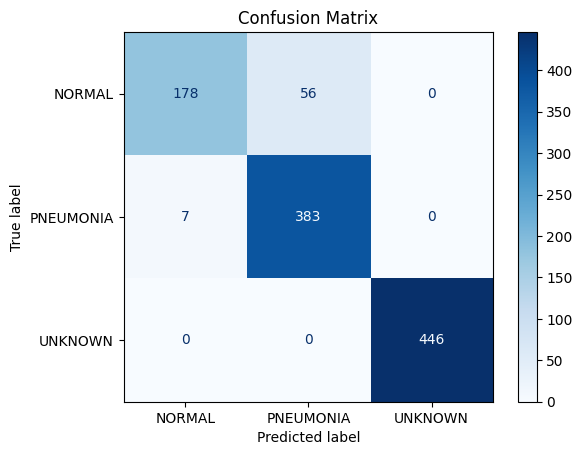
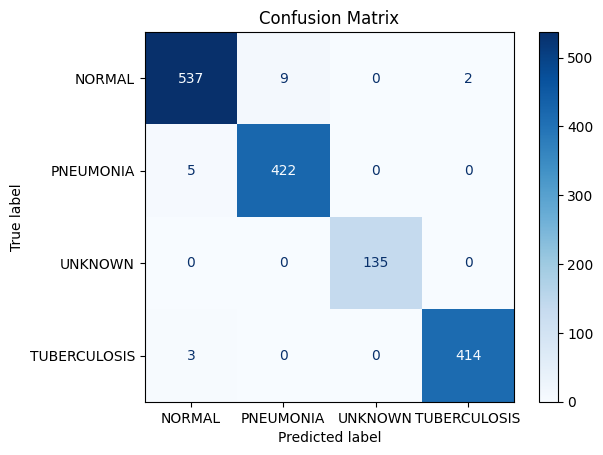
updated model in pntu

diff --git a/pn.html b/pn.html
@@ -42,7 +42,7 @@
                             <div class="row">
                                 <div class="col text-center mt-sm-5 mb-sm-5 ms-sm-2">
                                     <h1 class="display-2 fw-lighter" style="margin:10px;background:var(--bs-secondary-text-emphasis);color:var(--bs-body-color);font-family:'Alegreya Sans SC', sans-serif;border-radius:6px;">Tuberculosis &amp; pneumonia<strong>&nbsp;Detect From X-Ray&nbsp;</strong></h1>
-                                    <p style="margin:10px;margin-bottom:10px;background:var(--bs-gray-800);color:var(--bs-body-color);font-weight:bold;border-bottom-color:var(--bs-dark);border-radius:6px;font-family:'Roboto Condensed', sans-serif;" class="column">State of the art&nbsp; gaining 94.5% overall accuracy</p>
+                                    <p style="margin:10px;margin-bottom:10px;background:var(--bs-gray-800);color:var(--bs-body-color);font-weight:bold;border-bottom-color:var(--bs-dark);border-radius:6px;font-family:'Roboto Condensed', sans-serif;" class="column">State of the art&nbsp; gaining 98.76% overall accuracy</p>
                                 </div>
                             </div>
                             <div class="row gy-2 row-cols-1 row-cols-md-2 d-lg-flex align-items-lg-center">
@@ -94,14 +94,14 @@
                             </div>
                             <div class="row gy-3 row-cols-1 row-cols-sm-1 row-cols-md-2 d-flex d-xl-flex align-items-center align-items-xl-center" style="margin-top:30px;">
                                 <div class="col" style="margin-bottom:5px;">
-                                    <div class="card"><img class="card-img-top w-100 d-block card-img-top w-100 card-img w-100" src="assets/img/model_22_confusion_matrix.png">
+                                    <div class="card"><img class="card-img-top w-100 d-block card-img-top w-100 card-img w-100" src="assets/img/pn.png">
                                         <div class="card-img-overlay"></div>
                                     </div>
                                 </div>
                                 <div class="col">
                                     <div class="card">
                                         <div class="card-body">
-                                            <h4 class="card-title" style="font-family:'Alegreya Sans SC', sans-serif;">Result Description&nbsp;</h4>
+                                            <h4 class="card-title" style="font-family:'Alegreya Sans SC', sans-serif;">Result Description In Percentage&nbsp;</h4>
                                             <div class="table-responsive" style="color:var(--bs-body-color);">
                                                 <table class="table">
                                                     <thead>
@@ -115,15 +115,15 @@
                                                     <tbody>
                                                         <tr style="color:var(--bs-tertiary-bg);">
                                                             <td style="color:var(--bs-body-color);">Normal</td>
-                                                            <td style="color:var(--bs-tertiary-bg);">.93</td>
-                                                            <td style="color:var(--bs-secondary-bg);">.79</td>
-                                                            <td style="color:var(--bs-body-color);">.86</td>
+                                                            <td style="color:var(--bs-tertiary-bg);">98.53</td>
+                                                            <td style="color:var(--bs-secondary-bg);">98.00</td>
+                                                            <td style="color:var(--bs-body-color);">98.26</td>
                                                         </tr>
                                                         <tr>
                                                             <td style="color:var(--bs-body-color);">Pneumonia&nbsp;</td>
-                                                            <td style="color:var(--bs-tertiary-bg);">.90</td>
-                                                            <td style="color:var(--bs-secondary-bg);">.97</td>
-                                                            <td style="color:var(--bs-secondary-bg);">.93</td>
+                                                            <td style="color:var(--bs-tertiary-bg);">97.91</td>
+                                                            <td style="color:var(--bs-secondary-bg);">98.83</td>
+                                                            <td style="color:var(--bs-secondary-bg);">98.37</td>
                                                         </tr>
                                                         <tr>
                                                             <td style="color:var(--bs-body-color);">Unknown&nbsp;</td>
@@ -133,9 +133,9 @@
                                                         </tr>
                                                         <tr>
                                                             <td style="color:var(--bs-body-color);">Tuberculosis</td>
-                                                            <td style="color:var(--bs-tertiary-bg);">.95</td>
-                                                            <td style="color:var(--bs-secondary-bg);">.97</td>
-                                                            <td style="color:var(--bs-body-color);">.96</td>
+                                                            <td style="color:var(--bs-tertiary-bg);">99.52</td>
+                                                            <td style="color:var(--bs-secondary-bg);">99.28</td>
+                                                            <td style="color:var(--bs-body-color);">99.40</td>
                                                         </tr>
                                                     </tbody>
                                                 </table>
